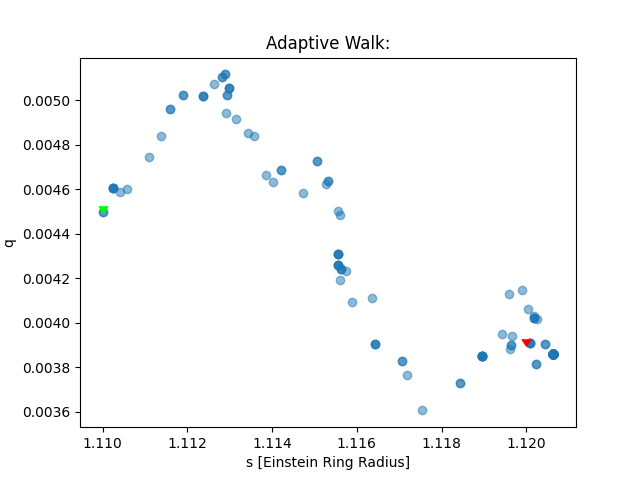
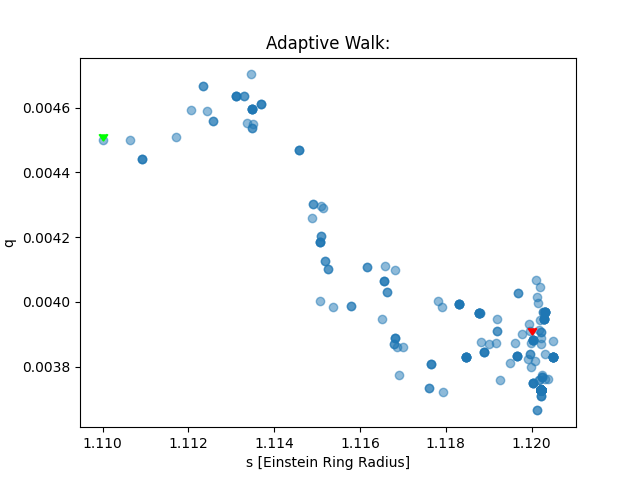
Trace plot, tuned params

diff --git a/ReversibleJump.py b/ReversibleJump.py
@@ -11,12 +11,17 @@ from scipy.stats import truncnorm, loguniform, uniform
 
 
 # Synthetic Event Parameters/Initialisation
-SBModel = mm.Model({'t_0': 36, 'u_0': 0.133, 't_E': 61.5, 'rho': 0.00096, 'q': 0.0039, 's': 1.120, 'alpha': 223.8})
+#SBModel = mm.Model({'t_0': 36, 'u_0': 0.133, 't_E': 61.5, 'rho': 0.00096, 'q': 0.0039, 's': 1.120, 'alpha': 223.8}) #strong
+#SBModel.set_magnification_methods([0., 'VBBL', 72.])
+#SBModel = mm.Model({'t_0': 36, 'u_0': 0.133, 't_E': 61.5, 'rho': 0.00096, 'q': 0.0004, 's': 1.33, 'alpha': 223.8}) #weak
+#SBModel.set_magnification_methods([0., 'VBBL', 72.])
+SBModel = mm.Model({'t_0': 36, 'u_0': 0.133, 't_E': 61.5, 'rho': 0.00096, 'q': 0.000002, 's': 4.9, 'alpha': 223.8}) #single
 SBModel.set_magnification_methods([0., 'VBBL', 72.])
+
 
 t=SBModel.set_times(n_epochs = 100)
 # Generate Synthetic Lightcurve
-Data = mm.MulensData(data_list=[t, SBModel.magnification(t), SBModel.magnification(t)/100], phot_fmt='flux', chi2_fmt='flux') #orignally 0.03, last entry represents noise
+Data = mm.MulensData(data_list=[t, SBModel.magnification(t), SBModel.magnification(t)/20], phot_fmt='flux', chi2_fmt='flux') #orignally 0.03, last entry represents noise
 #Data = SBModel.magnification(t)
 #SBModel.plot_magnification(t_range=[0, 72], subtract_2450000=False, color='black')
 #plt.savefig('RJLike.png')
@@ -26,6 +31,9 @@ th1 = np.array([36., 0.133, 61.5])
 th2 = np.array([36., 0.133, 61.5, 0.001, 0.0045, 1.11, 223.8])
 #print(np.exp(mc.Likelihood(1, Data, th1, 5)))
 #print(np.exp(mc.Likelihood(2, Data, th2, 5)))
+th1 = np.array([36., 0.133, 61.5])
+#th2 = np.array([36., 0.133, 61.5, 0.00096, 0.0004, 1.33, 223.8])
+th2 = np.array([36., 0.133, 61.5, 0.00096, 0.000002, 4.9, 223.8])
 
 #noise=w
 
@@ -48,7 +56,7 @@ priors = [t0_pi, u0_pi,  tE_pi, rho_pi,  q_pi, s_pi, alpha_pi]
 # Initialise
 m = 1#random.randint(1,2)
 J = 1 #THIS IS NOT CORRECT
-iterations = 100
+iterations = 1000
 
 ms = np.zeros((iterations), dtype=int)
 ms[0] = m
@@ -60,26 +68,32 @@ covariance2=np.multiply(0.0001, [0.01, 0.01, 0.1, 0.0001, 0.0001, 0.001, 0.001])
 #SurrogatePosterior[1].rvs
 #SurrogatePosterior[2].rvs
 
-covProp1, h1 = mc.AdaptiveMCMC(1, Data, th1, priors, covariance1, 10, 10)
-covProp2, h2 = mc.AdaptiveMCMC(2, Data, th2, priors, covariance2, 100, 100)
-covProp = [covProp1, covProp2]
-#covProp = [covariance1, covariance2]
+#covProp1, h1 = mc.AdaptiveMCMC(1, Data, th1, priors, covariance1, 200, 200)
+#covProp2, h2 = mc.AdaptiveMCMC(2, Data, th2, priors, covariance2, 200, 200)
+#covProp = [covProp1, covProp2]
+covProp = [covariance1, covariance2]
 
 states = []#np.zeros((iterations))
 
 centers = [th1, th2]
 #random sample
-thet = h2[:,-1]#th1
-theta = thet[0:3]#th1
+#thet = h2[:,-1]#th1
+#theta = thet[0:3]#th1
+theta=th1
 
-#print(h1)
-#print(h2)
-#print((covProp1))
-#print((covProp2))
+#print(np.cov(h1))
+#print(np.cov(h2))
+
+
+'''
+print((covProp1))
+print((covProp2))
+
 print(np.prod(covariance1))
 print(np.prod(covariance2))
-print(np.linalg.det(covProp1))
-print(np.linalg.det(covProp2))
+#print(np.linalg.det(covProp1))
+#print(np.linalg.det(covProp2))
+
 #print(np.linalg.det(np.cov(h1)))
 #print(np.linalg.det(np.cov(h2)))
 
@@ -92,7 +106,9 @@ plt.title('Adaptive Walk:')
 plt.scatter(1.120, 0.0039, c=[(1,0,0)], marker=7)#2 is chevron triangle
 plt.scatter(th2[5], th2[4], c=[(0,1,0)], marker=7)#2 is chevron triangle
 plt.savefig('Plots/Covariance-Sample-Walk.png')
+#plt.savefig('Plots/Walk.png')
 plt.clf()
+'''
 
 score=0
 
@@ -121,7 +137,9 @@ for i in range(iterations):
     ms[i] = m
     #ms.append(m)
 
-print(score/iterations)
+print("acc: "+str(score/iterations))
+print("1: "+str(1-np.sum(ms-1)/iterations))
+print("2: "+str(np.sum(ms-1)/iterations))
 #print(states)
 
 #ms=ms.astype(int)
@@ -136,9 +154,27 @@ plt.scatter((s2[:,5]), (s2[:,4]), alpha=0.5)
 plt.xlabel('s [Einstein Ring Radius]')
 plt.ylabel('q')
 plt.title('Walk:')
-plt.scatter(1.120, 0.0039, c=[(1,0,0)], marker="2")#2 is chevron triangle
-plt.savefig('Plots/RJ-Walk.png')
+plt.scatter(1.33, 0.0004, c=[(1,0,0)], marker="2")#2 is chevron triangle
+plt.savefig('Plots/RJ-binary-Walk.png')
+plt.clf()
+'''
+s1=[]
+for i in range(iterations):
+    if ms[i]==1: s1.append(states[i])
+#s2=states[(np.where(ms==2)[0])]
+s1=np.array(s1)
+#print(s2)
+plt.scatter((s1[:,2]), (s2[:,1]), alpha=0.5)
+plt.xlabel('u0')
+plt.ylabel('tE')
+plt.title('Walk:')
+plt.scatter(61.5, 0.133, c=[(1,0,0)], marker="2")#2 is chevron triangle
+plt.savefig('Plots/RJ-single-Walk.png')
+plt.clf()
+'''
 
 
-
+plt.plot(np.linspace(1, iterations, num=iterations), ms)
+plt.savefig('Plots/Trace.png')
+plt.clf()
 

diff --git a/light-curve-test.py b/light-curve-test.py
@@ -4,12 +4,37 @@ import numpy as np
 import Functions as mc
 
 # Synthetic Event Parameters/Initialisation
-SBModel = mm.Model({'t_0': 36, 'u_0': 0.133, 't_E': 61.5, 'rho': 0.00096, 'q': 0.0039, 's': 1.120, 'alpha': 223.8})
+#SBModel = mm.Model({'t_0': 36, 'u_0': 0.133, 't_E': 61.5, 'rho': 0.00096, 'q': 0.0039, 's': 1.120, 'alpha': 223.8})
+SBModel = mm.Model({'t_0': 36, 'u_0': 0.133, 't_E': 61.5, 'rho': 0.00096, 'q': 0.00001, 's': 2.0, 'alpha': 223.8})
 SBModel.set_magnification_methods([0., 'VBBL', 72.])
+
+SSModel = mm.Model({'t_0': 36, 'u_0': 0.133, 't_E': 61.5})
+SSModel.set_magnification_methods([0., 'point_source', 72.])
+
+#SBModel.plot_magnification(t_range=[0, 72], subtract_2450000=False, color='black')
+#plt.savefig('Plots/curve-strong-binary.png')
+
+
+SBModel.plot_magnification(t_range=[0, 72], subtract_2450000=False, color='black')
+plt.savefig('Plots/curve-weak-binary.png')
+plt.clf()
+
+SSModel.plot_magnification(t_range=[0, 72], subtract_2450000=False, color='black')
+plt.savefig('Plots/curve-weak-single.png')
+plt.clf()
+
+
 
 t=SBModel.set_times(n_epochs = 100)
 # Generate Synthetic Lightcurve
-Data = mm.MulensData(data_list=[t, SBModel.magnification(t), SBModel.magnification(t)/100], phot_fmt='flux', chi2_fmt='flux')
+Data = mm.MulensData(data_list=[t, SSModel.magnification(t), SSModel.magnification(t)/20], phot_fmt='flux', chi2_fmt='flux')
+
+th1 = np.array([36., 0.133, 61.5])
+th2 = np.array([36., 0.133, 61.5, 0.00096, 0.00001, 2.0, 223.8])
+print(np.exp(mc.Likelihood(1, Data, th1, 5)))
+print(np.exp(mc.Likelihood(2, Data, th2, 5)))
+c=d
+
 
 # Get chi2 by creating a new model and fitting to previously generated data
 def func(t_0, u_0, t_E, rho, q, s, alpha, Data):
@@ -41,7 +66,7 @@ plt.imshow(result, cmap='hot', interpolation='none', extent=[56.5, 66.5, 2853.06
 plt.xlabel('te [days]') # Set the y axis label of the current axis.
 plt.ylabel('to-2450000 [days]') # Set a title.
 plt.title('Closest Approach/Crossing Time Chi Squared over parameter space')
-plt.savefig('teto.png')
+plt.savefig('Plots/teto.png')
 '''
 de=5
 print(func(36, 0.133, 61.5, 0.00096, 0.0039, 1.120, 223.8, Data))
@@ -77,8 +102,8 @@ plt.title('Mass Fraction / Separation Chi^2 Statistic')
 cbar=plt.colorbar(fraction=0.046, pad=0.04)
 cbar.set_label('sqrt(Chi^2)', rotation=90)
 plt.scatter(1.120, 0.0039, c=[(1,0,0)], marker=7)#2 is chevron triangle
-plt.savefig('temp.png')
+plt.savefig('Plots/temp.png')
 
 #plt.figure()
 #SBModel.plot_magnification(t_range=[0, 72], subtract_2450000=False, color='black')
-#plt.savefig('curve-strong-binary.png')
+#plt.savefig('Plots/curve-strong-binary.png')

diff --git a/Functions.py b/Functions.py
@@ -57,7 +57,7 @@ def AdaptiveMCMC(m, data, theta, priors, covariance, burns, iterations):
     means[:, 0] = theta
 
     s = 1#2.4**2/d # Arbitrary, good value from Haario et al
-    eps = 1e-8 #* s? or the size of the prior space according to paper 
+    eps = 1e-8 #-6/-2?* s? or the size of the prior space according to paper 
     I = np.identity(d)
 
     pi = Likelihood(m, data, theta, 5)
@@ -81,8 +81,9 @@ def AdaptiveMCMC(m, data, theta, priors, covariance, burns, iterations):
         means[:, i] = (means[:, i-1]*i + theta)/(i + 1) # recursive mean (offsets indices starting at zero by one)
 
 
-    covariance = s*np.cov(states) + s*eps*I # emperical adaptionnp.cov(states)#
+    covariance = s*np.cov(states)# + s*eps*I # emperical adaptionnp.cov(states)#
     #print(np.linalg.det(covariance))
+    
     t = initialRuns
     for i in range(iterations): # adaptive walk
         proposed = GaussianProposal(theta, covariance)
@@ -104,7 +105,8 @@ def AdaptiveMCMC(m, data, theta, priors, covariance, burns, iterations):
         
         # update
 
-        covariance = (t - 1)/t * covariance + s/t * (t*means[:, t - 1]*np.transpose(means[:, t - 1]) - (t + 1)*means[:, t]*np.transpose(means[:, t]) + states[:, t]*np.transpose(states[:, t]) + eps*I)
+        covariance = (t - 1)/t * covariance + s/t * (t*means[:, t - 1]*np.transpose(means[:, t - 1]) - (t + 1)*means[:, t]*np.transpose(means[:, t]) + states[:, t]*np.transpose(states[:, t])) #+ 0*eps*I)
+        
         #covariance = s*np.cov(states) + s*eps*I
         
         t +=1 # global index
@@ -131,7 +133,9 @@ def RJCenteredProposal(m, mProp, theta, covProp, center):
             return l[0:3] * center[mProp-1] + center[mProp-1]
         
         if mProp == 2: 
-            u = center[mProp-1][3:] #SurrogatePosterior[mProp].rvs #THIS FUNCTION MIGHT NOT BE DIFFERENTIABLE, JACOBIAN TROUBLES?
+            r = random.random()
+            #u = np.multiply(r, [0.001, 0.00059, 1.238, 223.7])+np.multiply((1-r), [0.00099, 0.0009, 1.2, 223.5])#multivariate_normal.rvs(mean=center[mProp-1][3:], cov=covProp[3:] * np.average(l)) #center[mProp-1][3:] * np.average(l)#SurrogatePosterior[mProp].rvs #THIS FUNCTION MIGHT NOT BE DIFFERENTIABLE, JACOBIAN TROUBLES?
+            u = center[mProp-1][3:]
             #print(center[mProp-1][0:3])
             thetaProp=np.concatenate(((l * center[mProp-1][0:3]+center[mProp-1][0:3]), u))
             #print('l: '+str(l))
